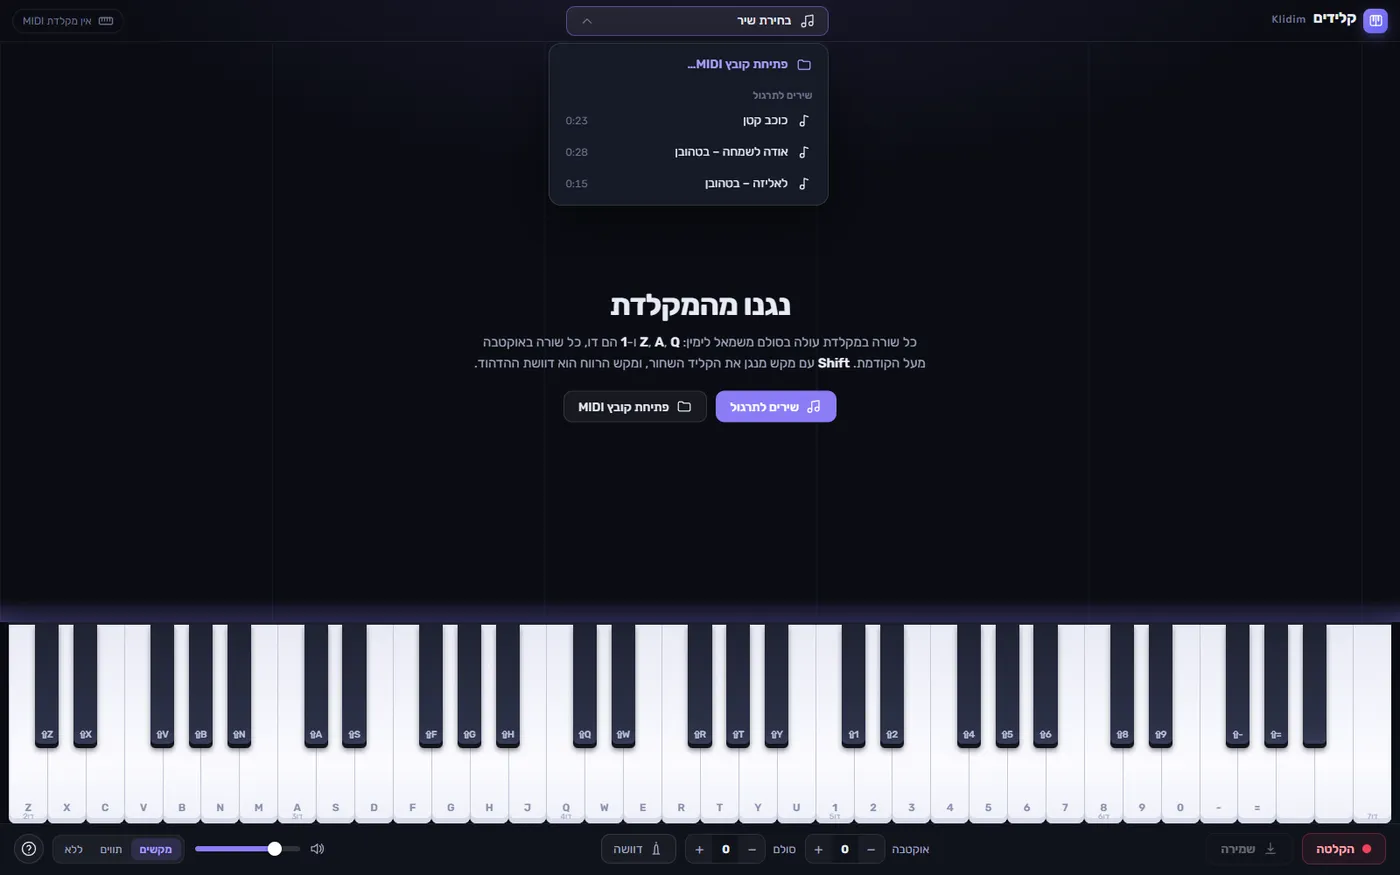
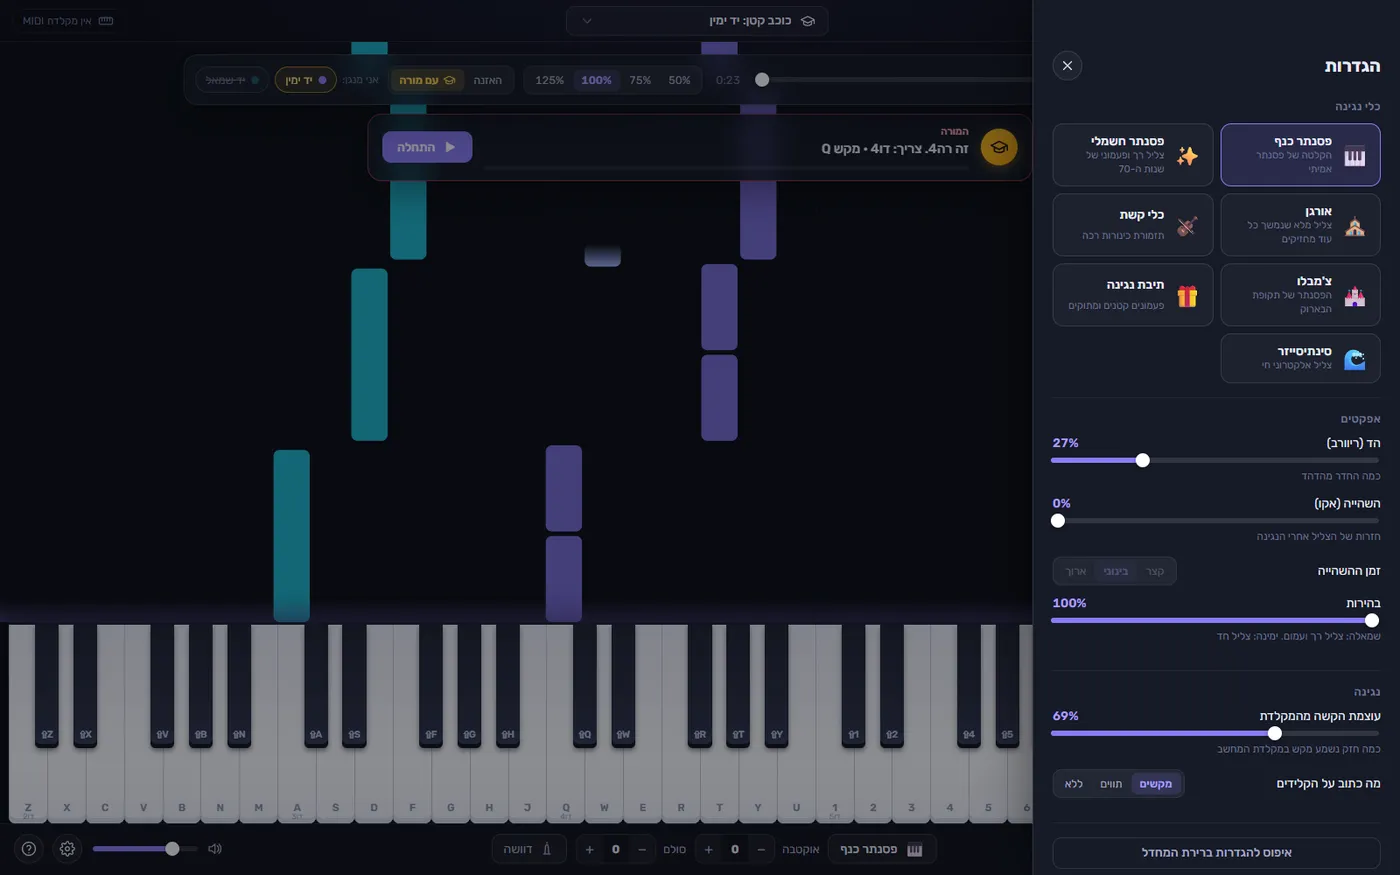
feat: Klidim 0.2.0 on the site (teacher, instruments, new screenshots)

diff --git a/src/data/curated.ts b/src/data/curated.ts
@@ -130,7 +130,7 @@ export const CURATED: Record<string, Curated> = {
   },
   klidim: {
     category: 'desktop', wide: true, coverIndex: 1,
-    tagline: { en: 'A Hebrew desktop piano: play from the keyboard, falling notes, recording and MIDI', he: 'פסנתר למחשב בעברית: נגינה מהמקלדת, תווים נופלים, הקלטה ומקלדת MIDI' },
+    tagline: { en: 'A Hebrew desktop piano with a built-in teacher, 7 instruments, falling notes and MIDI', he: 'פסנתר למחשב בעברית עם מורה מובנה, 7 כלי נגינה, תווים נופלים ומקלדת MIDI' },
     platforms: ['windows'], stack: ['TypeScript', 'Electron', 'React', 'Tone.js', 'Web MIDI'],
   },
   'usb-ai-technician': {
